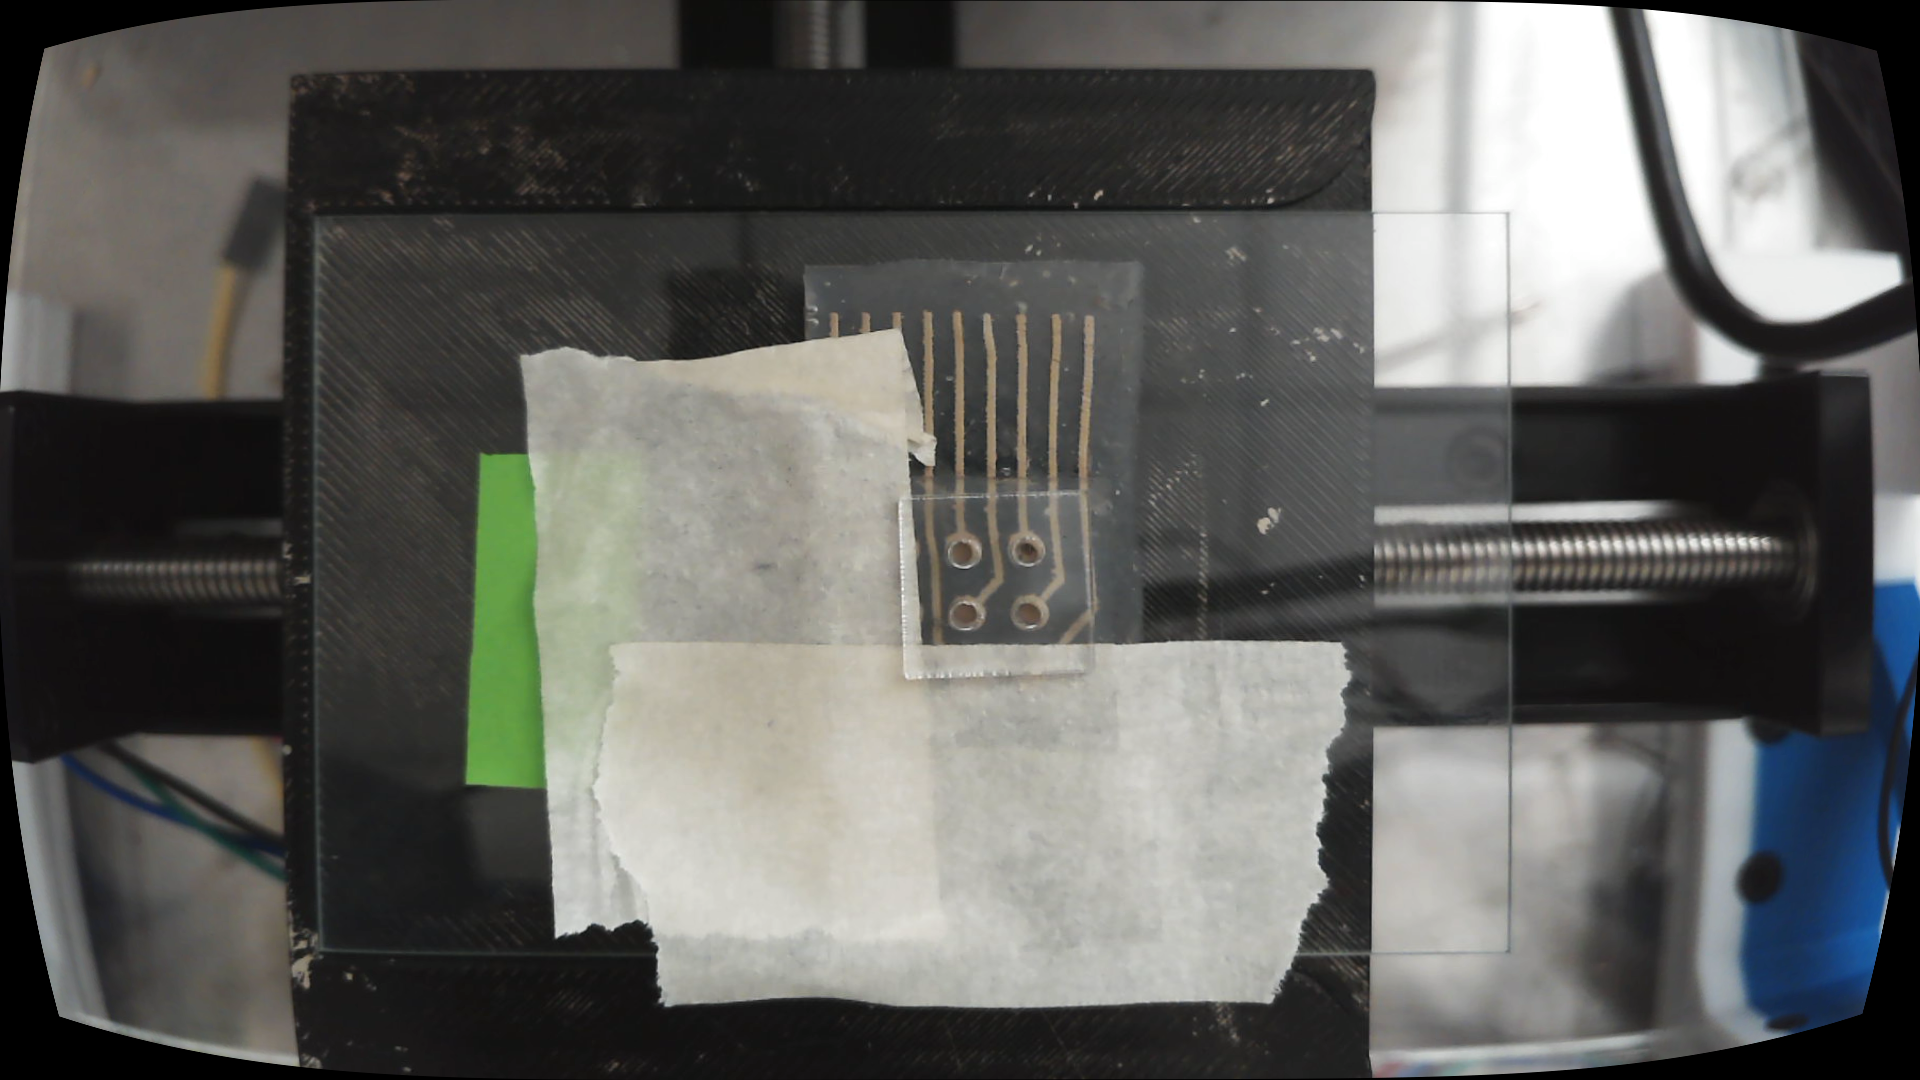
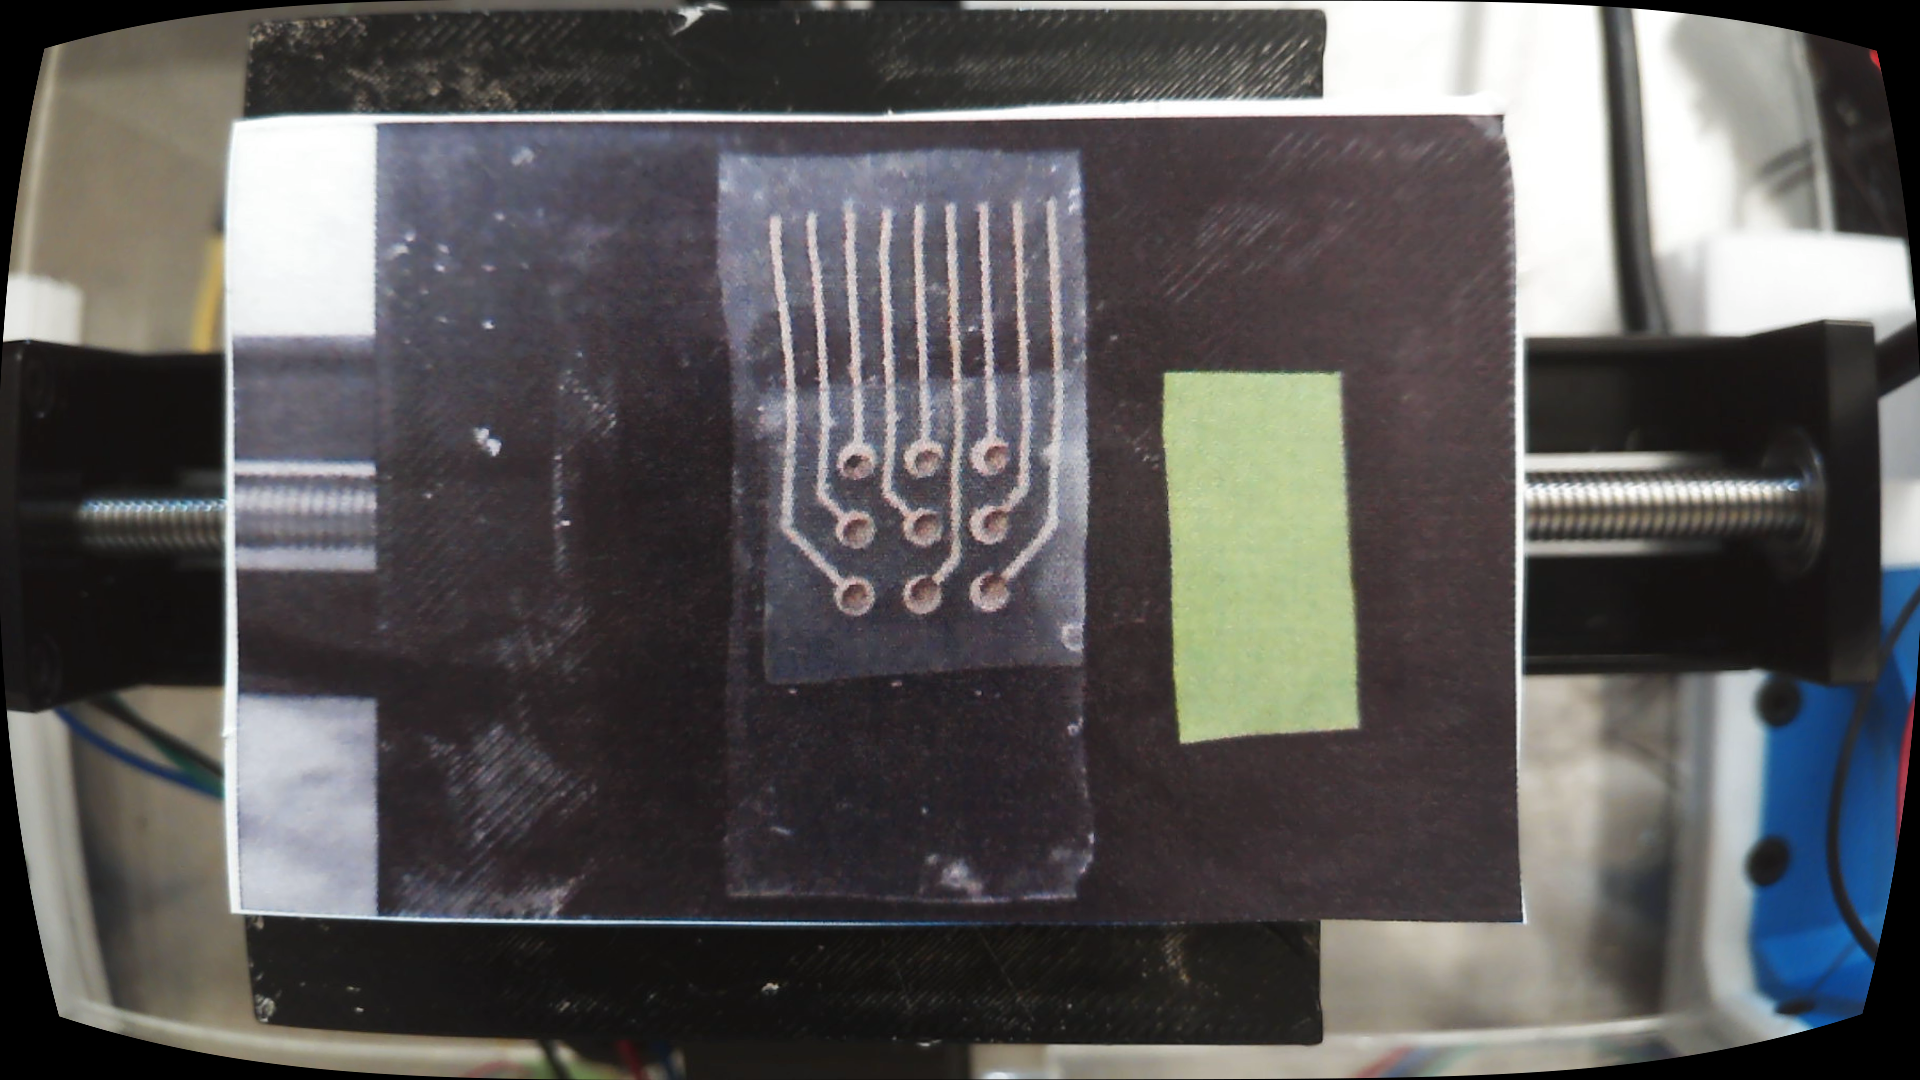
updated extrusion

diff --git a/gui2.py b/gui2.py
@@ -115,7 +115,7 @@ class DashboardApp(ctk.CTk):
 
         ctk.CTkButton(
             self.control_group_1,
-            text="Calibrate",
+            text="Calibrate Holes",
             height=40,
             fg_color="#23272e",
             command=self.run_target,
@@ -134,20 +134,20 @@ class DashboardApp(ctk.CTk):
         self.control_group_2.pack(fill="x", padx=14, pady=(0, 20))
 
         ctk.CTkButton(
-            self.control_group_2,
+            self.control_group_1,
             text="Home (Top Right)",
             height=40,
             fg_color="#23272e",
             command=self.find_top_right,
         ).pack(fill="x", padx=10, pady=(10, 10))
 
-        ctk.CTkButton(
-            self.control_group_2,
-            text="Home (Center)",
-            height=40,
-            fg_color="#23272e",
-            command=self.find_top_right,
-        ).pack(fill="x", padx=10, pady=(10, 10))
+        # ctk.CTkButton(
+        #     self.control_group_2,
+        #     text="Home (Center)",
+        #     height=40,
+        #     fg_color="#23272e",
+        #     command=self.find_top_right,
+        # ).pack(fill="x", padx=10, pady=(10, 10))
 
         # ctk.CTkButton(
         #     self.control_group_2,
@@ -156,6 +156,22 @@ class DashboardApp(ctk.CTk):
         #     fg_color="#23272e",
         #     command=self.extrude_points,
         # ).pack(fill="x", padx=10, pady=(0, 10))
+
+        ctk.CTkButton(
+            self.control_group_2,
+            text="Test Extrusions",
+            height=40,
+            fg_color="#23272e",
+            command=self.test_extrusions,
+        ).pack(fill="x", padx=10, pady=(0, 10))
+        
+        ctk.CTkButton(
+            self.control_group_2,
+            text="Lower Syringe",
+            height=40,
+            fg_color="#23272e",
+            command=self.moveSyringe,
+        ).pack(fill="x", padx=10, pady=(0, 10))
 
         ctk.CTkButton(
             self.control_group_2,
@@ -181,13 +197,6 @@ class DashboardApp(ctk.CTk):
             command= self.home_z,
         ).pack(fill="x", padx=10, pady=(0, 10))
 
-        ctk.CTkButton(
-            self.control_group_2,
-            text="Lower Syringe",
-            height=40,
-            fg_color="#23272e",
-            command=self.moveSyringe,
-        ).pack(fill="x", padx=10, pady=(0, 10))
 
         # === XYZ Controls ===
         self.xyz_controls = ctk.CTkFrame(self.sidebar, fg_color="#1e1e1e")
@@ -257,23 +266,41 @@ class DashboardApp(ctk.CTk):
 
 
         # Z up/down buttons
-        z_buttons = ctk.CTkFrame(self.xyz_controls, fg_color="transparent")
-        z_buttons.pack(pady=(4, 10))
+        zb_buttons = ctk.CTkFrame(self.xyz_controls, fg_color="transparent")
+        zb_buttons.pack(pady=(4, 10))
         ctk.CTkButton(
-            z_buttons,
+            zb_buttons,
             text="Z ↑",
             width=80,
             height=30,
             command=lambda: self.GUI_move("Z", float(self.z_step_var.get()))
-        ).pack(pady=4)
+        ).grid(row=0, column=0, padx=5, pady=4)
 
         ctk.CTkButton(
-            z_buttons,
+            zb_buttons,
             text="Z ↓",
             width=80,
             height=30,
             command=lambda: self.GUI_move("Z", -float(self.z_step_var.get()))
-        ).pack()
+        ).grid(row=1, column=0, padx=5, pady=4)
+
+        # b_buttons = ctk.CTkFrame(self.xyz_controls, fg_color="transparent")
+        # b_buttons.pack(pady=(4, 10))
+        ctk.CTkButton(
+            zb_buttons,
+            text="B ↑",
+            width=80,
+            height=30,
+            command=lambda: self.GUI_move("B", -float(self.z_step_var.get()))
+        ).grid(row=0, column=1, padx=5, pady=4)
+
+        ctk.CTkButton(
+            zb_buttons,
+            text="B ↓",
+            width=80,
+            height=30,
+            command=lambda: self.GUI_move("B", float(self.z_step_var.get()))
+        ).grid(row=1, column=1, padx=5, pady=4)
 
 
         # Main camera area (fills almost all the right side)
@@ -295,7 +322,40 @@ class DashboardApp(ctk.CTk):
         self.cap = cv2.VideoCapture(0)
         self.update_camera_feed()
 
-        
+
+    def test_extrusions(self):
+        send_gcode("G92 X0 Y0 Z0 B0")
+        send_gcode("G90")
+        B_previous = 4
+        B_step = 0.1
+        B_retract = -4
+        X_move = 0
+
+        for i in range(3):
+            send_gcode(f"G1 X{X_move} F100")
+            X_move += 4
+            time.sleep(1)
+
+            send_gcode(f"G1 Z-1.5 F100")
+            send_gcode(f"G1 B{B_step + B_previous} F100")
+            time.sleep(2)
+
+            # Retraction first, slow
+            send_gcode(f"G1 B{B_step + B_previous + B_retract} F300")
+            time.sleep(0.15)
+
+            # Small XY wipe
+            #send_gcode(f"G1 X{X_move + 0.5} F150")
+
+            # Slow lift
+            send_gcode(f"G1 Z0 F80")
+
+            B_previous += B_step
+            time.sleep(0.5)
+
+        send_gcode("G1 X0 Y0 Z0 F100")
+
+
     def refresh_ports(self):
         ports = list_serial_ports()
         self.port_dropdown.configure(values=ports)
@@ -555,27 +615,32 @@ class DashboardApp(ctk.CTk):
         send_gcode("G92 X0 Y0 Z0 B0")
         send_gcode("G90")
         count = 0
-        B_previous = 0
-        B_retract = -2
-        B_step = 3
+        B_previous = 4
+        B_step = 0.1
+        B_retract = -4
         for move_dist in self.displacements:
             x_move = move_dist[0]
             y_move = move_dist[1]
             send_gcode(f"G1 X{x_move} F100")
             send_gcode(f"G1 Y{y_move} F100")
             time.sleep(1)
-            send_gcode(f"G1 Z-1 F100")
-            send_gcode(f"G1 B{B_step + B_previous} F50")
-            send_gcode(f"G1 B{B_step + B_previous + B_retract} F50")
-            B_previous = B_step + B_previous
-            time.sleep(5)
-            send_gcode(f"G1 Z0 F100")
+
+            #Extrude
+            send_gcode(f"G1 Z-1.5 F100")
+            send_gcode(f"G1 B{B_step + B_previous} F100")
+            time.sleep(2)
+
+            # Retraction first, slow
+            send_gcode(f"G1 B{B_step + B_previous + B_retract} F300")
+            time.sleep(0.15)
+
+            # Slow lift
+            send_gcode(f"G1 Z0 F80")
+            B_previous += B_step
+            time.sleep(0.5)
             print("Extruded Hole: ", count)
         send_gcode("G1 X0 Y0 Z0")
         print("Extruded All Holes: ", count)
-
-            
-
 
 
     def moveSyringe(self):

diff --git a/AsendGCode.py b/AsendGCode.py
@@ -26,15 +26,26 @@ def send_gcode(cmd):
         if 'ok' in line.lower():
             break
 
+step = 2
+retract = -2
+
+step = 2
+retract = -1.95
 # === MAIN LOOP ===
-send_gcode("G92 X0 Y0 Z0");
-with open(FILENAME, 'r', encoding='utf-8', errors='ignore') as f:
-    for raw in f:
-        line = raw.strip()
-        # skip blanks & comments
-        if not line or line.startswith(';'):
-            continue
-        send_gcode(line)
+send_gcode("G92 X0 Y0 Z0")
+send_gcode("G91")
+send_gcode("G1 Z-1 F100")
+send_gcode(f"G1 B{step} F100")
+send_gcode(f"G1 B{retract} F350")
+time.sleep(1)
+send_gcode("G1 Z2 F100")
+# with open(FILENAME, 'r', encoding='utf-8', errors='ignore') as f:
+#     for raw in f:
+#         line = raw.strip()
+#         # skip blanks & comments
+#         if not line or line.startswith(';'):
+#             continue
+#         send_gcode(line)
 
 print("Done sending G-code.")
 ser.close()
